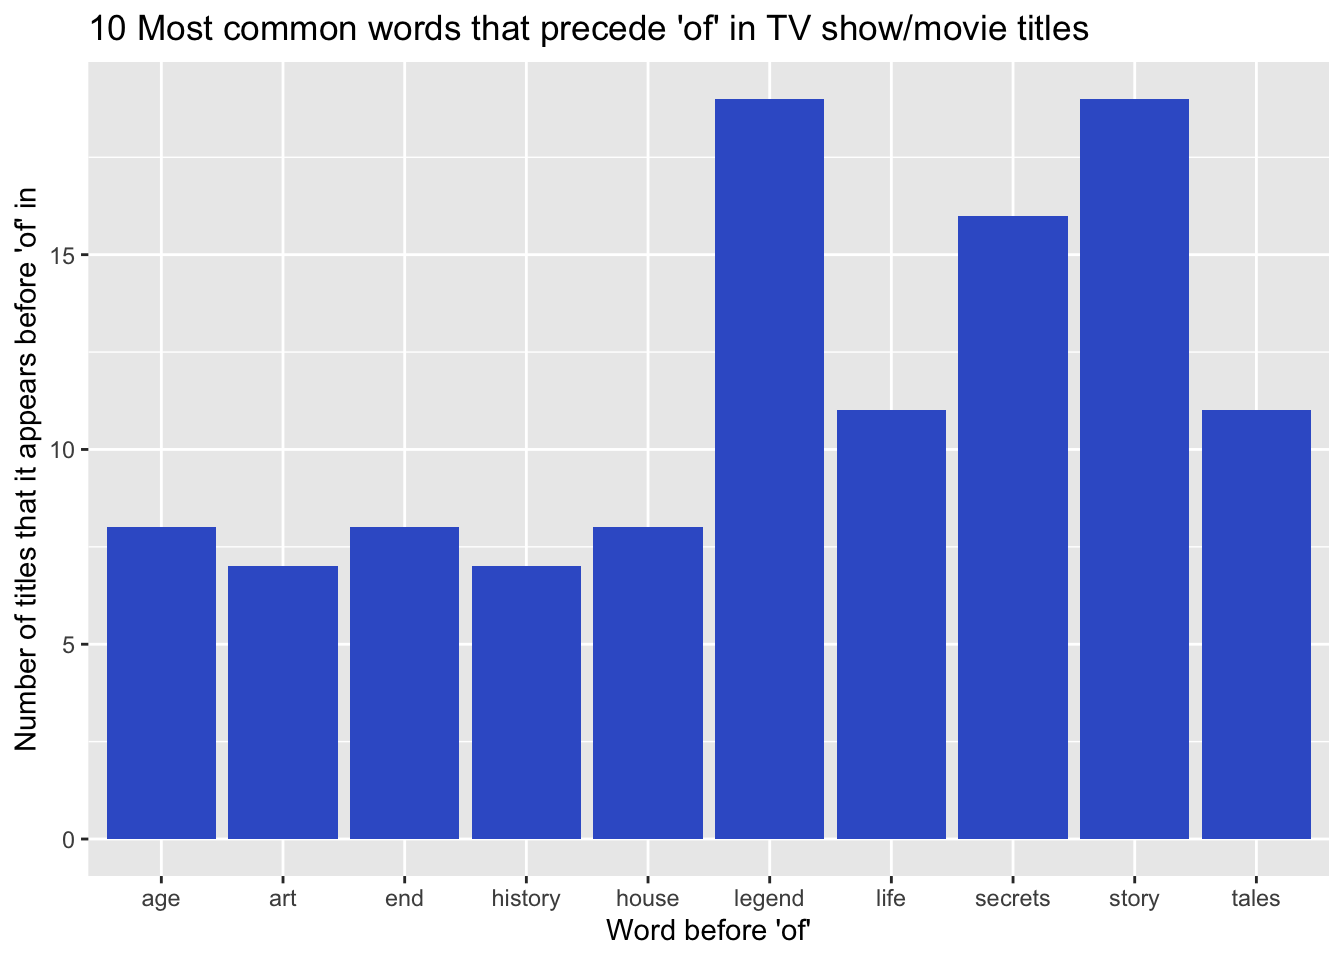
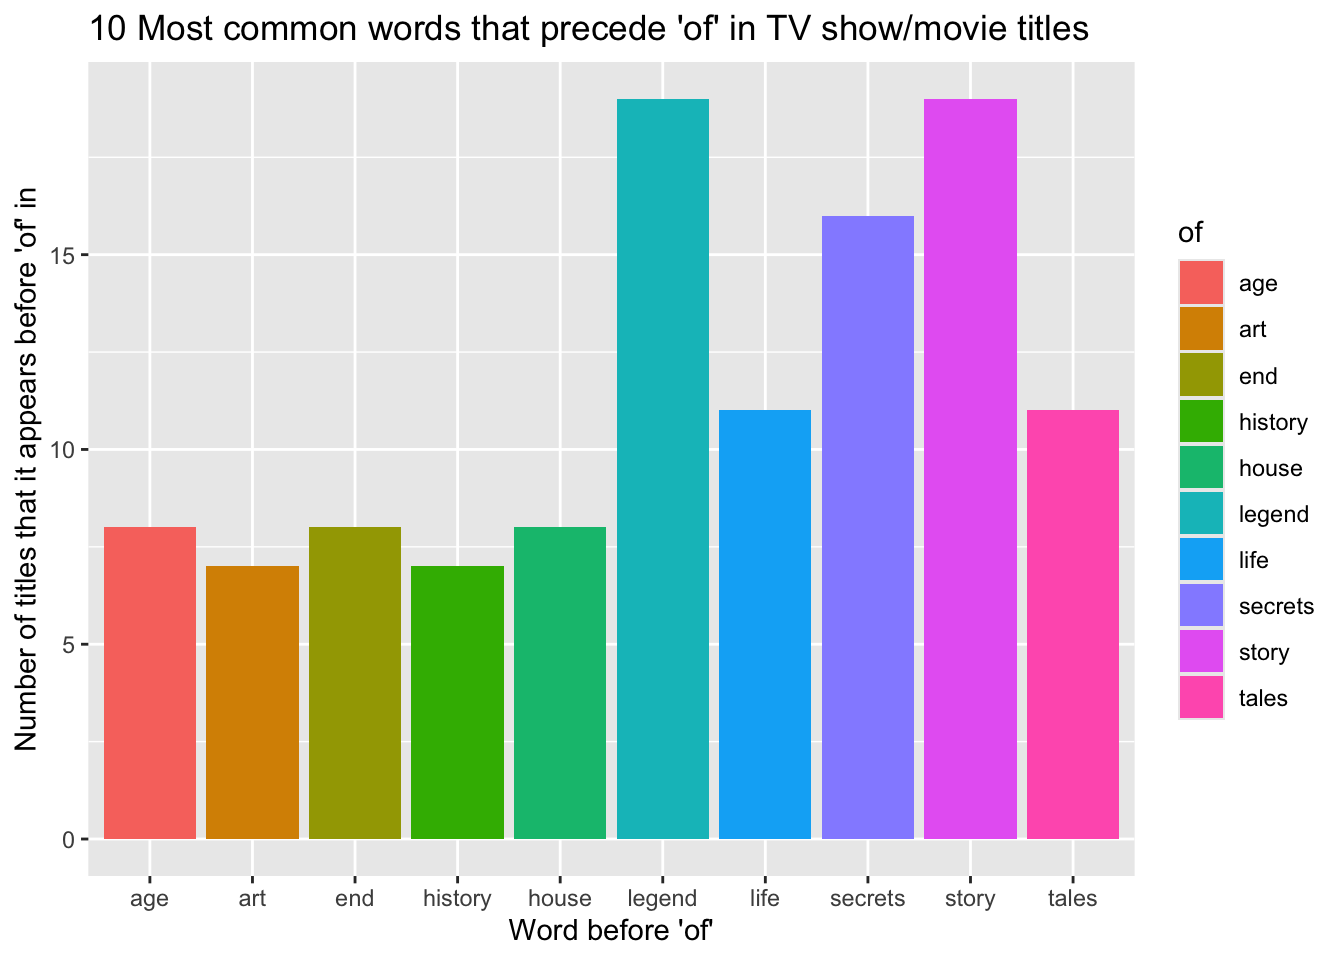
fixed navbar

diff --git a/docs/project2.html b/docs/project2.html
@@ -253,7 +253,7 @@ pre > code.sourceCode > span > a:first-child::before { text-decoration: underlin
 </section>
 <section id="question-of-interest-2" class="level3">
 <h3 class="anchored" data-anchor-id="question-of-interest-2">Question of Interest 2</h3>
-<p>The second question of interest that I came up with was which countries have the most TV Shows and Movies that deal with the future. I wondered if there would be a connection to depictions of the future with countries that tend to be seen as more technology advanced or first world. I explored the descriptions that included the word future in them and used this to determine if the picture had anything to do with the future. What I found generally aligned with what I thought as the United States had the highest amount of TV shows and movies dealing with ‘future’ ideas. This is also likely why I thought about this because I am exposed to so many shows and movies that align with this, having grown up watching Netflix in the states. The bar chart shows a large discrepancy from the United States to the next country, India. This uses only the top 10 countries that have future in descriptions.</p>
+<p>The second question of interest that I came up with was which countries have the most TV Shows and Movies that are about the future. I wondered if there would be a connection to depictions of the future with countries that tend to be seen as more technologically advanced or first world. I explored the descriptions that included the word future in them and used this to determine if the picture had anything to do with the future. What I found generally aligned with what I thought as the United States had the highest amount of TV shows and movies dealing with ‘future’ ideas. This is also likely why I thought about this because I am exposed to so many shows and movies that align with this, having grown up watching Netflix in the states. The bar chart shows a large discrepancy from the United States to the next country, India. This uses only the top 10 countries that have future in descriptions.</p>
 <div class="cell">
 <div class="sourceCode cell-code" id="cb4"><pre class="sourceCode r code-with-copy"><code class="sourceCode r"><span id="cb4-1"><a href="#cb4-1" aria-hidden="true" tabindex="-1"></a>content_about_future <span class="ot">&lt;-</span> netflix_titles <span class="sc">%&gt;%</span></span>
 <span id="cb4-2"><a href="#cb4-2" aria-hidden="true" tabindex="-1"></a>  <span class="fu">filter</span>(<span class="fu">str_detect</span>(description, <span class="st">"(?i)future"</span>)) <span class="sc">%&gt;%</span></span>
@@ -294,7 +294,7 @@ pre > code.sourceCode > span > a:first-child::before { text-decoration: underlin
 <span id="cb5-7"><a href="#cb5-7" aria-hidden="true" tabindex="-1"></a>  <span class="fu">slice_head</span>(<span class="at">n =</span> <span class="dv">10</span>)</span>
 <span id="cb5-8"><a href="#cb5-8" aria-hidden="true" tabindex="-1"></a></span>
 <span id="cb5-9"><a href="#cb5-9" aria-hidden="true" tabindex="-1"></a><span class="fu">ggplot</span>(words, <span class="fu">aes</span>(<span class="at">x =</span> of, <span class="at">y =</span> n)) <span class="sc">+</span></span>
-<span id="cb5-10"><a href="#cb5-10" aria-hidden="true" tabindex="-1"></a>  <span class="fu">geom_col</span>(<span class="at">fill =</span> <span class="st">"royalblue3"</span>) <span class="sc">+</span> </span>
+<span id="cb5-10"><a href="#cb5-10" aria-hidden="true" tabindex="-1"></a>  <span class="fu">geom_col</span>(<span class="fu">aes</span>(<span class="at">fill =</span> of)) <span class="sc">+</span> </span>
 <span id="cb5-11"><a href="#cb5-11" aria-hidden="true" tabindex="-1"></a>  <span class="fu">labs</span>(</span>
 <span id="cb5-12"><a href="#cb5-12" aria-hidden="true" tabindex="-1"></a>    <span class="at">title =</span> <span class="st">"10 Most common words that precede 'of' in TV show/movie titles"</span>,</span>
 <span id="cb5-13"><a href="#cb5-13" aria-hidden="true" tabindex="-1"></a>    <span class="at">x =</span> <span class="st">"Word before 'of'"</span>,</span>
@@ -308,7 +308,7 @@ pre > code.sourceCode > span > a:first-child::before { text-decoration: underlin
 </div>
 </div>
 </div>
-<p>Previously mentioned in the question of interest, this plot shows the top 10 words that come before ‘of’ in the titles of TV shows or movies. The words legend and story are both tied for first place the most amount of times it comes before the word ‘of’ in a title. The 7 other words also appear in front of ‘of’ a considerable amount of times, all of which having at least 6 projects in which they are used in the title prior to the use of ‘of’.</p>
+<p>Previously mentioned in the question of interest, this plot shows the top 10 words that come before ‘of’ in the titles of TV shows or movies. The words legend and story are both tied for first place the most amount of times it comes before the word ‘of’ in a title. The 7 other words also appear in front of ‘of’ a considerable amount of times, all of which having at least 6 projects in which they are used in the title prior to the use of ‘of’. The different words are labeled by both the x-axis and the legend. Each color corresponds to a different word that precedes ‘of’.</p>
 </section>
 <section id="references" class="level3">
 <h3 class="anchored" data-anchor-id="references">References</h3>

diff --git a/docs/about.html b/docs/about.html
@@ -7,7 +7,7 @@
 <meta name="viewport" content="width=device-width, initial-scale=1.0, user-scalable=yes">
 
 
-<title>About – cwang72.github.io</title>
+<title>About – Connor Wang</title>
 <style>
 code{white-space: pre-wrap;}
 span.smallcaps{font-variant: small-caps;}
@@ -113,7 +113,7 @@ pre > code.sourceCode > span > a:first-child::before { text-decoration: underlin
       <div class="navbar-container container-fluid">
       <div class="navbar-brand-container mx-auto">
     <a class="navbar-brand" href="./index.html">
-    <span class="navbar-title">cwang72.github.io</span>
+    <span class="navbar-title">Connor Wang</span>
     </a>
   </div>
             <div id="quarto-search" class="" title="Search"></div>
@@ -124,12 +124,27 @@ pre > code.sourceCode > span > a:first-child::before { text-decoration: underlin
             <ul class="navbar-nav navbar-nav-scroll me-auto">
   <li class="nav-item">
     <a class="nav-link" href="./index.html"> 
-<span class="menu-text">Home</span></a>
-  </li>  
-  <li class="nav-item">
-    <a class="nav-link active" href="./about.html" aria-current="page"> 
 <span class="menu-text">About</span></a>
   </li>  
+  <li class="nav-item">
+    <a class="nav-link" href="./project2.html"> 
+<span class="menu-text">Netflix Data Analysis</span></a>
+  </li>  
+  <li class="nav-item dropdown ">
+    <a class="nav-link dropdown-toggle" href="#" id="nav-menu-data-viz" role="link" data-bs-toggle="dropdown" aria-expanded="false">
+ <span class="menu-text">Data Viz</span>
+    </a>
+    <ul class="dropdown-menu" aria-labelledby="nav-menu-data-viz">    
+        <li>
+    <a class="dropdown-item" href="./dataviz/bobsburgers.html">
+ <span class="dropdown-text">Bob’s Burgers</span></a>
+  </li>  
+        <li>
+    <a class="dropdown-item" href="./dataviz/horrormovies.html">
+ <span class="dropdown-text">Horror Movies</span></a>
+  </li>  
+    </ul>
+  </li>
 </ul>
           </div> <!-- /navcollapse -->
             <div class="quarto-navbar-tools">
@@ -138,14 +153,14 @@ pre > code.sourceCode > span > a:first-child::before { text-decoration: underlin
     </nav>
 </header>
 <!-- content -->
-<div id="quarto-content" class="quarto-container page-columns page-rows-contents page-layout-article page-navbar">
+<div id="quarto-content" class="quarto-container page-columns page-rows-contents page-layout-full page-navbar">
 <!-- sidebar -->
 <!-- margin-sidebar -->
     <div id="quarto-margin-sidebar" class="sidebar margin-sidebar zindex-bottom">
         
     </div>
 <!-- main -->
-<main class="content" id="quarto-document-content">
+<main class="content column-page" id="quarto-document-content">
 
 <header id="title-block-header" class="quarto-title-block default">
 <div class="quarto-title">
@@ -154,7 +169,7 @@ pre > code.sourceCode > span > a:first-child::before { text-decoration: underlin
 
 
 
-<div class="quarto-title-meta">
+<div class="quarto-title-meta column-page">
 
     
   

diff --git a/docs/dataviz/bobsburgers.html b/docs/dataviz/bobsburgers.html
@@ -95,6 +95,10 @@ ul.task-list li input[type="checkbox"] {
     <a class="nav-link" href="../index.html"> 
 <span class="menu-text">About</span></a>
   </li>  
+  <li class="nav-item">
+    <a class="nav-link" href="../project2.html"> 
+<span class="menu-text">Netflix Data Analysis</span></a>
+  </li>  
   <li class="nav-item dropdown ">
     <a class="nav-link dropdown-toggle" href="#" id="nav-menu-data-viz" role="link" data-bs-toggle="dropdown" aria-expanded="false">
  <span class="menu-text">Data Viz</span>

diff --git a/docs/dataviz/horrormovies.html b/docs/dataviz/horrormovies.html
@@ -95,6 +95,10 @@ ul.task-list li input[type="checkbox"] {
     <a class="nav-link" href="../index.html"> 
 <span class="menu-text">About</span></a>
   </li>  
+  <li class="nav-item">
+    <a class="nav-link" href="../project2.html"> 
+<span class="menu-text">Netflix Data Analysis</span></a>
+  </li>  
   <li class="nav-item dropdown ">
     <a class="nav-link dropdown-toggle" href="#" id="nav-menu-data-viz" role="link" data-bs-toggle="dropdown" aria-expanded="false">
  <span class="menu-text">Data Viz</span>

diff --git a/docs/index.html b/docs/index.html
@@ -93,7 +93,7 @@ ul.task-list li input[type="checkbox"] {
   </li>  
   <li class="nav-item">
     <a class="nav-link" href="./project2.html"> 
-<span class="menu-text">Full Text Analysis</span></a>
+<span class="menu-text">Netflix Data Analysis</span></a>
   </li>  
   <li class="nav-item dropdown ">
     <a class="nav-link dropdown-toggle" href="#" id="nav-menu-data-viz" role="link" data-bs-toggle="dropdown" aria-expanded="false">
